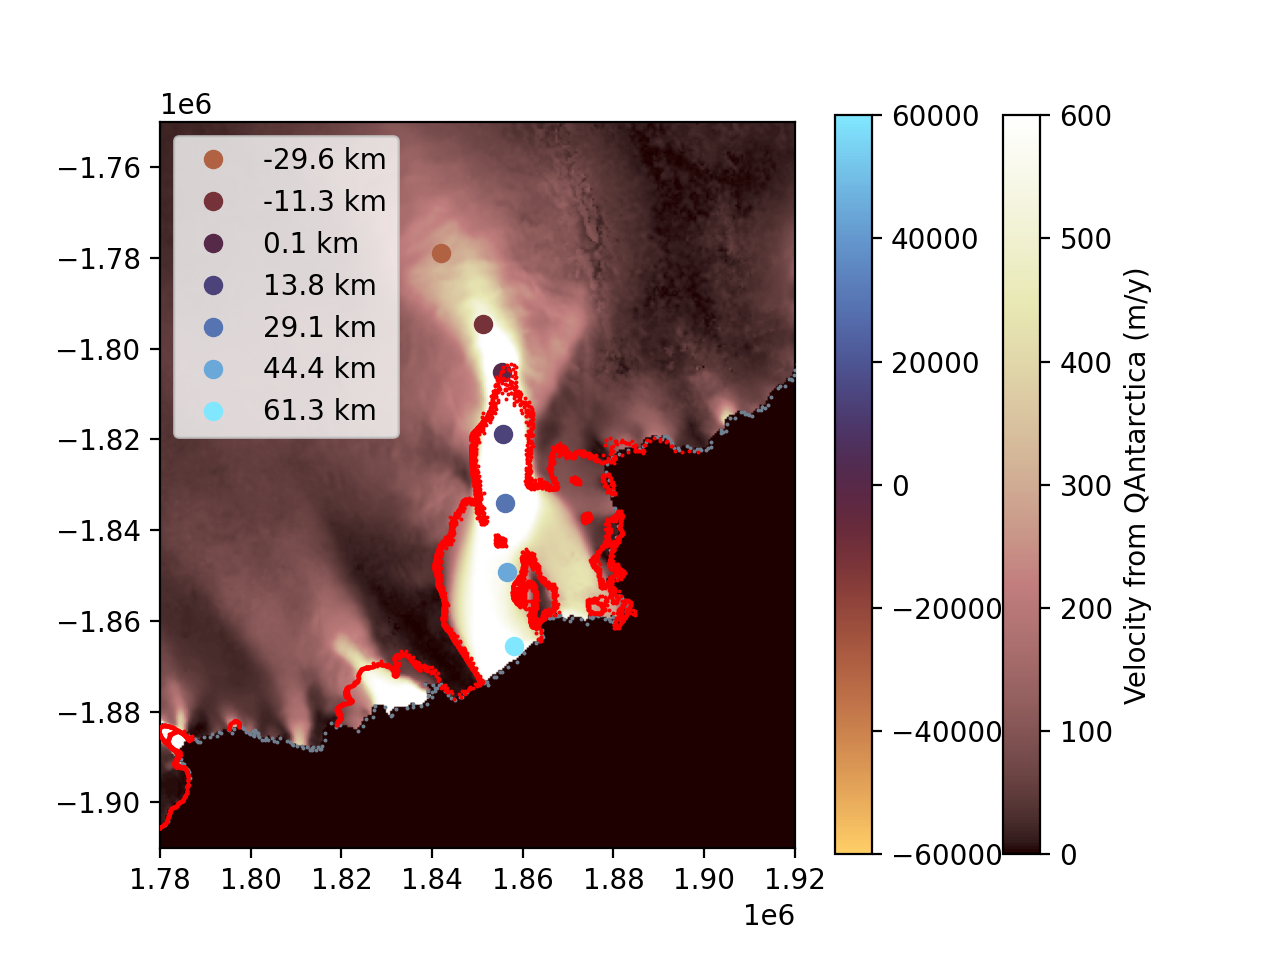
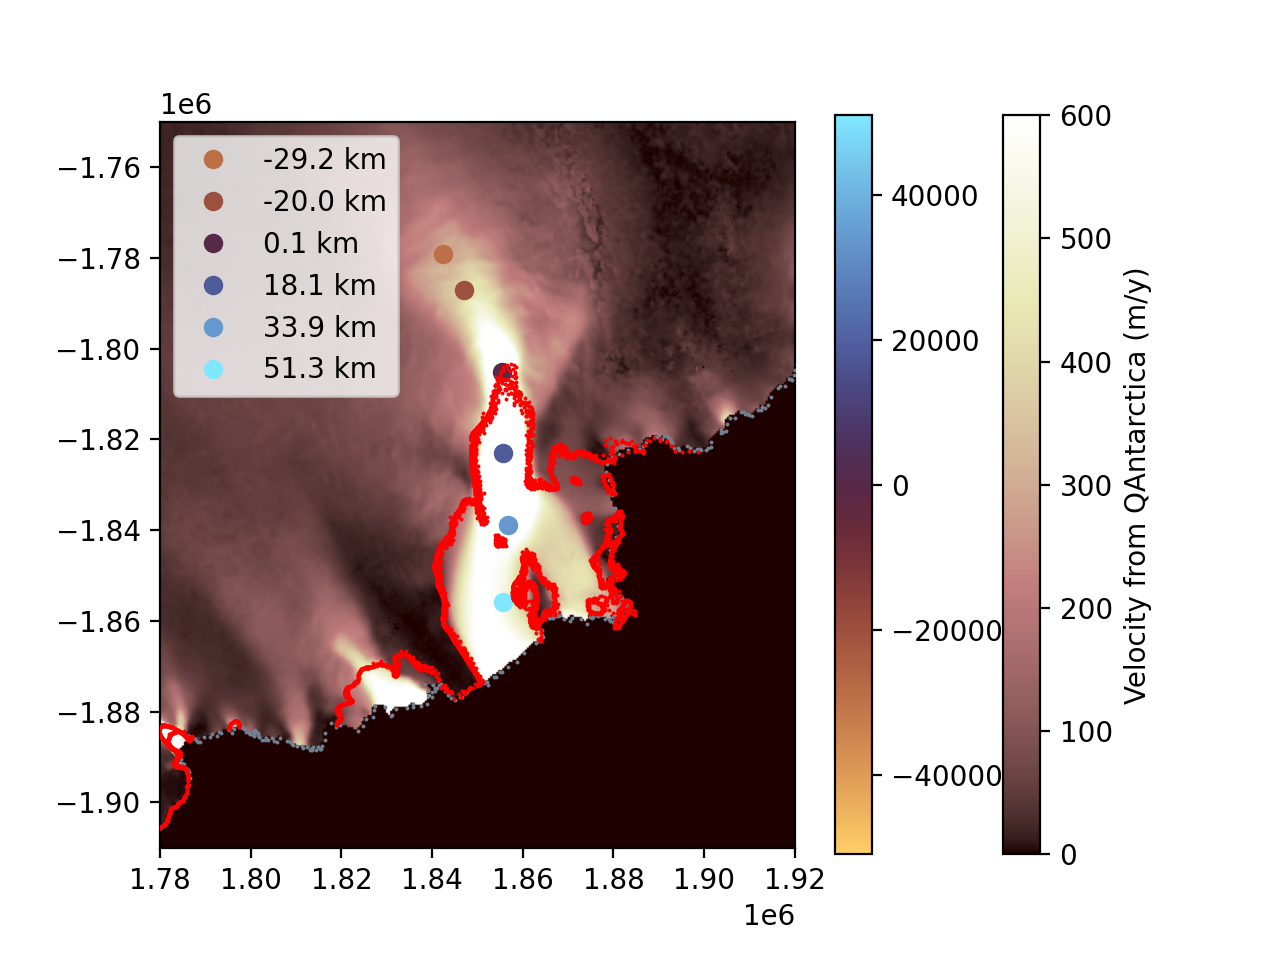
fixed 2011 floating elevations

diff --git a/src/pointwise.py b/src/pointwise.py
@@ -15,10 +15,8 @@ import matplotlib as mpl
 from plotting import Plotting
 
 class Pointwize():
-    def __init__(self, flags, xlim, ylim, points, data, pt_range = [-2, 5], point_spacing=15000, change=True, streamwise=True):
+    def __init__(self, flags, xlim, ylim, points, data, pt_range = [-2, 4], point_spacing=17000, change=True, streamwise=True):
         self.flags = flags
-        self.yearStart = int(self.flags.YEARSTART)
-        self.yearEnd = int(self.flags.YEAREND)
         self.xlim = xlim
         self.ylim = ylim
         self.points = points
@@ -84,7 +82,7 @@ class Pointwize():
         
         p.plot_df_on_borders(df, self.cm, self.norm, self.labels, POINTWISE_OUTPUT_LOCATION + str(self.point_label) + "_locations.png")
 
-    def gpd_geom_match(self, out, index, column_of_interest = 'elevation',add_result=False):
+    def gpd_geom_match(self, out, index, column_of_interest = 'elevation', add_result=False):
         p = self.points[index]
         df_ref = self.create_point_df([p])
 
@@ -96,17 +94,21 @@ class Pointwize():
         data = []
 
         for x in df_ref['date'].unique():
-            time.append(x)
+            val = df_ref[df_ref['date'] == x][column_of_interest].dropna().mean()
+            if np.isnan(val):
+                continue
             if 'sources' in df_ref.columns:
                 src = df_ref[df_ref['date'] == x]['sources'][0]
                 if type(df_ref[df_ref['date'] == x]['sources'][0]) != str:
                     src = list(src.values)[0]
                 sources.append(src)
-            data.append(df_ref[df_ref['date'] == x][column_of_interest].mean())
+
+            
+            data.append(val)
+            time.append(x)
 
         time = np.array(time)
         data = np.array(data)
-        print(sources)
         sources = np.array(sources)
 
         if len(data) == 0:
@@ -133,7 +135,7 @@ class Pointwize():
             self.results[self.get_label(index)] = df
 
     
-    def geotiff_geom_match(self, out, index, column_of_interest = 'band_data',add_result=False):
+    def geotiff_geom_match(self, out, index, column_of_interest = 'band_data', add_result=False):
         p = self.points[index]
 
         df = out.sel(x=p[1], y=p[0], method='nearest')
@@ -158,18 +160,20 @@ class Pointwize():
         df[time_dim] = new_dates
         
         if 'sources' in df.variables:
-            df = pd.DataFrame({'time': new_dates,
-                                                                'sources': df['sources'],
-                                                self.data: df[column_of_interest]})
+            df = pd.DataFrame({'time': new_dates, 'sources': df['sources'],
+                               self.data: df[column_of_interest]})
 
         else:
             df = pd.DataFrame({'time': new_dates,
-                                                self.data: df[column_of_interest]})
+                                self.data: df[column_of_interest]})
             
+
         if self.change:
             df = self.geotiff_time_difference(df)
+            df = df.dropna()
             ref_time = df['time'].min()
             data = df.copy(deep=True)
+            print(data)
             df[self.data] = df[self.data] - data[self.data][data['time'] == ref_time]
         
         if add_result:
@@ -186,7 +190,7 @@ class Pointwize():
         return df
 
 
-    def plot_time_series(self, fig, ax, rema=False):
+    def plot_time_series(self, fig, ax, rema=False, unified_line=False):
         if not self.results:
             self.get_data(rema)
 
@@ -200,25 +204,26 @@ class Pointwize():
 
         for j, p in enumerate(self.results.keys()):
             self.results[p] = self.results[p].dropna()
-            ax.plot(self.results[p]['time'], 
-                        self.results[p][self.data].values, marker= 'None', color=sm.to_rgba(self.labels[j]))
-            
+            ls = 'None'
+            if unified_line:
+                ax.plot(self.results[p]['time'], 
+                            self.results[p][self.data].values, marker= 'None', color=sm.to_rgba(self.labels[j]))
+            else:
+                ls = 'solid'
             
             if 'sources' in self.results[p].columns:
                 for i, s in enumerate(self.results[p]['sources'].unique()):
                     cur = self.results[p][self.results[p]['sources'] == s]
                     
                     ax.plot(cur['time'], 
-                            cur[self.data].values, marker= shapes[i], color=sm.to_rgba(self.labels[j]), linestyle='None')
+                            cur[self.data].values, marker= shapes[i], color=sm.to_rgba(self.labels[j]), linestyle=ls)
             else:
                 ax.plot(self.results[p]['time'], 
-                        self.results[p][self.data].values, label = p, marker= 'o', color=sm.to_rgba(self.labels[j]), linestyle='None')
+                        self.results[p][self.data].values, label = p, marker= 'o', color=sm.to_rgba(self.labels[j]), linestyle=ls)
 
 
     def get_data_rema(self):
 
-        print()
-        print()
         for p in range(len(self.points)):
             if self.get_label(p) not in self.results.keys():
                 self.results[self.get_label(p)] = pd.DataFrame({})
@@ -247,8 +252,6 @@ class Pointwize():
             'elev': ElevationManager,
         }
 
-        print()
-        print()
         filemanager = fms[self.data](self.xlim, self.ylim, self.flags, self.data)
         print('getting output')
         out = filemanager.get_ouput_files()
@@ -265,6 +268,8 @@ class Pointwize():
             self.results[self.get_label(p)] = self.results[self.get_label(p)].sort_values('time')
         if rema and self.data == 'elev':
             return self.get_data_rema()
+
+
 
 
 
@@ -362,7 +367,7 @@ class StreamFlow():
             self.get_stream(direction=1, points=min(self.step_range[1], self.step_range[1]-self.step_range[0]))
 
 
-    def get_points(self, overlap_ds=False, include_all=False):
+    def get_points(self, overlap_ds=False, include_all=False, index='dist'):
         if self.dist == []:
             self.run_experiment()
 
@@ -380,12 +385,18 @@ class StreamFlow():
             self.dist = list(new_df['dist_from_grndline'])
 
 
+        if index == 'dist':
+            df = xr.Dataset({
+                #'date': self.dates,
+                'geometry': (('dist'), self.points)
+                }, coords={
+                'dist': self.dist}).drop_duplicates(dim='dist')
+        else:
+            df = xr.Dataset({
+                'geometry': (('dist'), self.points)
+                }, coords={
+                'dist': self.dates}).drop_duplicates(dim='dist')
 
-        df = xr.Dataset({
-            #'date': self.dates,
-            'geometry': (('dist'), self.points)
-            }, coords={
-            'dist': self.dist}).drop_duplicates(dim='dist')
 
         
 

diff --git a/src/file_manager.py b/src/file_manager.py
@@ -667,7 +667,7 @@ class ElevationManager(FileManager):
                 continue
             try:
                 gdf_final = gpd.GeoDataFrame(self.file[c], geometry='geometry', crs='EPSG:4326')
-                gdf_final.to_file(OUTPUT + self.get_elevation_fname(c), driver='GPKG')
+                gdf_final.to_file(TIF_LOCATION + self.get_elevation_fname(c), driver='GPKG')
             except:
                     ('Saving year ' + str(c) + ' gpkg failed.')
             
@@ -684,32 +684,28 @@ class ElevationManager(FileManager):
             gdal.Warp(TIF_LOCATION +'reprojected/' + self.get_tif_elevation_fname(c), 
                       TIF_LOCATION + self.get_tif_elevation_fname(c),
                       dstSRS='EPSG:3031')
+            print(TIF_LOCATION +'reprojected/' + self.get_tif_elevation_fname(c))
             
 
-            self.generate_image(False, self.get_elevation_fname(c), self.plotter.plot_elevation, c, reprojected=True)
+            #self.generate_image(False, self.get_elevation_fname(c), self.plotter.plot_elevation, c, reprojected=True)
             i += 1
             progress2.load_bar(i, len(list(self.file.keys())))
 
         self.build_supplementary_files()
 
 
-    def build_supplementary_files(self, to_build=2011):
-
-        ref_year = 2019
-        if not np.datetime64(str(ref_year)) in self.file.keys():
-            self.file[np.datetime64(str(ref_year))] = gpd.read_file(TIF_LOCATION + self.get_elevation_fname(ref_year))
-        ref_file = self.file[np.datetime64(str(ref_year))].copy(deep=True)
-        ref_file = ref_file.sort_values(by='date')
-        ref_file["geometry"] = ref_file.normalize()
-        ref_file.drop_duplicates()
-
-
-
+    def apply_rate_(self, ref_file, rate_fname, floating, to_build=2011):
+        # TODO: make this not suck
         progress = LoadingBar()
         start_year = max(2010, self.yearStart-1)
 
+        factor = 1
+
+        if floating:
+            factor = 0.1
+
         
-        offset = xr.open_dataset(ICESAT1_ELEVATION_RATE)
+        offset = xr.open_dataset(rate_fname)
         lat = []
         lon = []
         new_vals = []
@@ -722,7 +718,7 @@ class ElevationManager(FileManager):
             except Exception as e:
                 continue
 
-            offset_found = offset_found['band_data']  * (to_build-start_year)
+            offset_found = offset_found['band_data']  * (to_build-start_year) * factor
             
 
             
@@ -734,6 +730,27 @@ class ElevationManager(FileManager):
 
 
         dates = [np.datetime64(str(to_build))] * len(new_vals)
+
+        return lat, lon, new_vals, dates
+
+
+
+    def build_supplementary_files(self, to_build=2011):
+
+        ref_year = 2019
+        if not np.datetime64(str(ref_year)) in self.file.keys():
+            self.file[np.datetime64(str(ref_year))] = gpd.read_file(TIF_LOCATION + self.get_elevation_fname(ref_year))
+        ref_file = self.file[np.datetime64(str(ref_year))].copy(deep=True)
+        ref_file = ref_file.sort_values(by='date')
+        ref_file.drop_duplicates()
+
+        lat_g, lon_g, new_vals_g, dates_g = self.apply_rate_(ref_file, ICESAT1_ELEVATION_RATE, False, to_build=2011)
+        lat_f, lon_f, new_vals_f, dates_f = self.apply_rate_(ref_file, ICESAT1_ELEVATION_RATE_FLOATING, True, to_build=2011)
+
+        lat = lat_g + lat_f
+        lon = lon_g + lon_f
+        new_vals = new_vals_g + new_vals_f
+        dates = dates_g + dates_f
 
         df = pd.DataFrame({'latitude': lat,
                             'longitude': lon, 
@@ -762,7 +779,7 @@ class ElevationManager(FileManager):
                     dstSRS='EPSG:3031')
         
 
-        self.generate_image(False, self.get_elevation_fname(to_build), self.plotter.plot_elevation, to_build, reprojected=True)
+        #self.generate_image(False, self.get_tif_elevation_fname(to_build), self.plotter.plot_elevation, to_build, reprojected=True)
 
         
 

diff --git a/src/utils.py b/src/utils.py
@@ -25,7 +25,6 @@ POINT_LISTS = {
     'Dibble' : [
         [-1805005.87,1855416.14],
         [-1835433,1850375],
-        [-1841946,1843270],
         [-1830432,1861889]
     ],
 
@@ -49,6 +48,7 @@ ELEVATION_H5_LOCATION = INPUT + "elevation/"
 ELEVATION_LOCATION = INPUT + 'elevation/ATL11_trends_APS.gpkg'
 GRAV_LOCATION = INPUT + "grav/AIS_GMB_grid.tif"
 ICESAT1_ELEVATION_RATE = INPUT + 'elevation/change_rates_crs_4326.tif'#INPUT + 'elevation/ICESat1_ICESat2_mass_change_updated_2_2021/dhdt/ais_dhdt_grounded_filt.tif'
+ICESAT1_ELEVATION_RATE_FLOATING = INPUT + 'elevation/change_rates_crs_4326_floating.tif'#INPUT + 'elevation/ICESat1_ICESat2_mass_change_updated_2_2021/dhdt/ais_dhdt_grounded_filt.tif'
 
 ELEVATION_GPKG_LOCATION = OUTPUT + 'elevation/'
 TIF_LOCATION = OUTPUT
